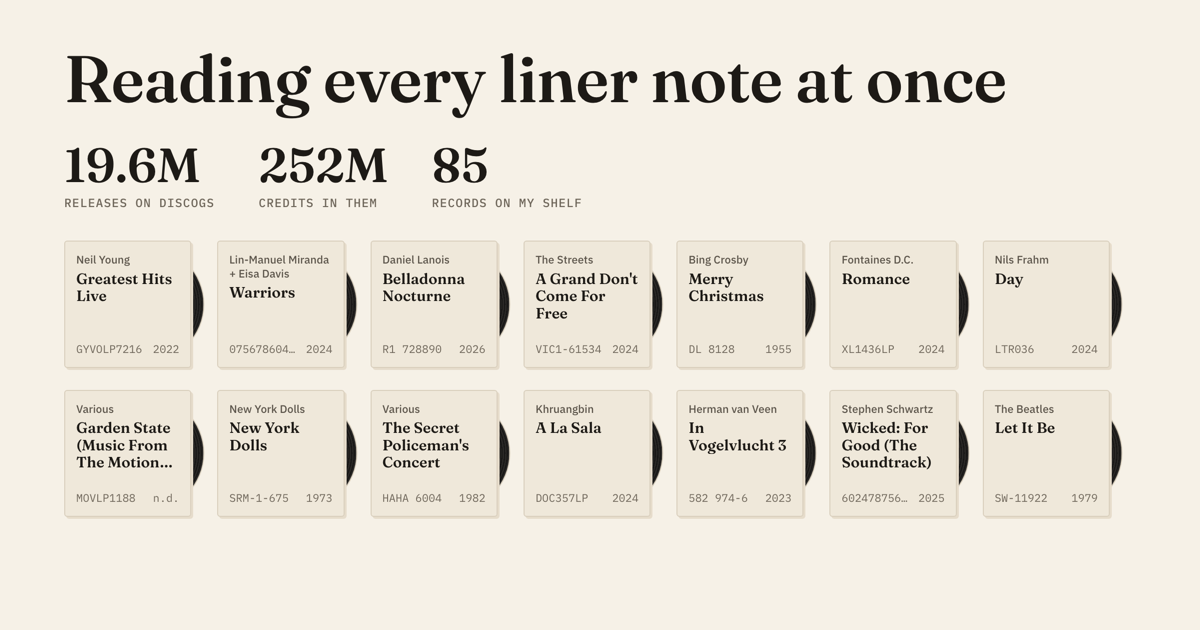
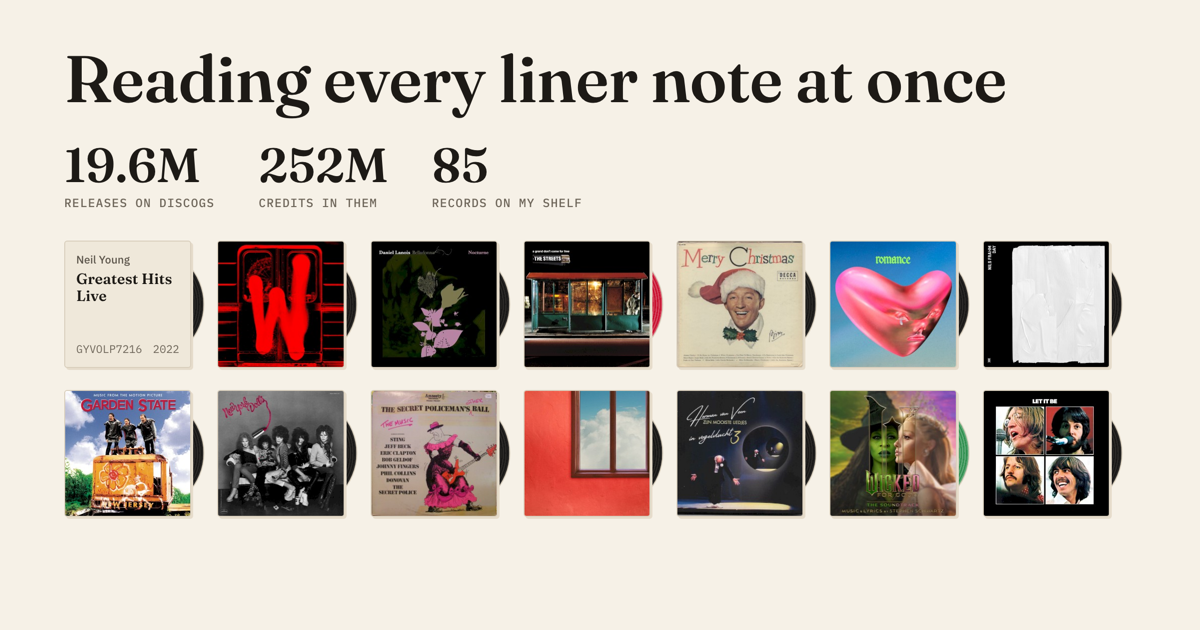
Discogs covers without a hover, and screenshots with covers
- The 11 records the Cover Art Archive doesn't have now ask the Discogs API as they scroll into view, so every cover shows without a hover, on phones too. A burst of 12, then one every 5 seconds, stays under Discogs' 25 a minute. Those covers keep their "Data provided by Discogs" credit showing, and are still forgotten after 5.5 hours.
- The README screenshot (now a JPEG) and the link preview show the covers. Both were taken with the Discogs API blocked, so only Cover Art Archive covers are in them.

Changed region(s): [[0.0308, 0.3619, 0.925, 0.8444]]

diff --git a/web/common.js b/web/common.js
@@ -186,18 +186,23 @@ window.VIZ = (() => {
   };
   const remember = (id, url) => { try { localStorage.setItem("cover:" + id, JSON.stringify({ url, t: Date.now() })); } catch {} };
 
-  // One API call at a time, 2.5 s apart, so sweeping the mouse across the wall stays under 25 a minute
+  // Discogs allows about 25 calls a minute without a login. A burst of 12, then one every 5 seconds, can't go over that
+  // in any minute, even for a shelf with far more records missing from the Cover Art Archive than mine.
   const pendingCovers = new Map();
-  let lastCall = 0, waitUntil = 0;
+  const BURST = 12, EVERY_MS = 5000;
+  let tokens = BURST, refilled = Date.now(), waitUntil = 0;
   const coverUrl = id => {
     const hit = cached(id);
     if (hit) return Promise.resolve(hit);
     if (pendingCovers.has(id)) return pendingCovers.get(id);
     const p = new Promise(resolve => {
       const go = async () => {
-        const delay = Math.max(lastCall + 2500, waitUntil) - Date.now();
+        const now = Date.now();
+        tokens = Math.min(BURST, tokens + (now - refilled) / EVERY_MS);
+        refilled = now;
+        const delay = Math.max(waitUntil - now, tokens >= 1 ? 0 : (1 - tokens) * EVERY_MS);
         if (delay > 0) return setTimeout(go, delay);
-        lastCall = Date.now();
+        tokens -= 1;
         try {
           const res = await fetch(`https://api.discogs.com/releases/${id}`);
           if (res.status === 429) { waitUntil = Date.now() + 60000; return setTimeout(go, 60000); }
@@ -213,6 +218,17 @@ window.VIZ = (() => {
     p.then(() => pendingCovers.delete(id));
     return p;
   };
+
+  // Run fn once el is near the screen. Without IntersectionObserver, run it now.
+  const watchers = new Map();
+  const observer = "IntersectionObserver" in window ? new IntersectionObserver(entries => entries.forEach(e => {
+    if (!e.isIntersecting) return;
+    observer.unobserve(e.target);
+    const fn = watchers.get(e.target);
+    watchers.delete(e.target);
+    if (fn) fn();
+  }), { rootMargin: "300px" }) : null;
+  const inView = (el, fn) => { if (!observer) return fn(); watchers.set(el, fn); observer.observe(el); };
 
   // Vinyl colours as the colours themselves, shared by B2's dots and the records on the sleeves
   const SWATCH = {
@@ -254,24 +270,25 @@ window.VIZ = (() => {
       a.querySelector(".credit").textContent = "Cover Art Archive";
       img.loading = "lazy";
       img.addEventListener("load", () => { if (caa) a.classList.add("show-cover"); }, { once: true });
-      img.addEventListener("error", () => { caa = null; a.classList.remove("caa", "show-cover"); img.removeAttribute("src"); a.querySelector(".credit").textContent = "Data provided by Discogs"; }, { once: true });
+      img.addEventListener("error", () => { caa = null; a.classList.remove("caa", "show-cover"); img.removeAttribute("src"); a.querySelector(".credit").textContent = "Data provided by Discogs"; inView(a, fromDiscogs); }, { once: true });
       img.src = `https://coverartarchive.org/${caa}/front-250`;
     }
-    let active = false;
-    const show = () => {
-      active = true;
-      a.classList.add("out");
-      if (caa) return;
-      if (img.src) return a.classList.add("show-cover");
+    // No Cover Art Archive cover: ask Discogs once the sleeve scrolls into view, and keep its credit showing
+    let asked = false;
+    const fromDiscogs = () => {
+      if (caa || asked) return;
+      asked = true;
       a.classList.add("fetching");
       coverUrl(r.release_id).then(url => {
         a.classList.remove("fetching");
-        if (!url) return;
-        img.addEventListener("load", () => { if (active) a.classList.add("show-cover"); }, { once: true });
+        if (!url || caa) return;
+        img.addEventListener("load", () => a.classList.add("show-cover"), { once: true });
         img.src = url;
       });
     };
-    const hide = () => { active = false; a.classList.remove("out", "fetching"); if (!caa) a.classList.remove("show-cover"); };
+    if (!caa) inView(a, fromDiscogs);
+    const show = () => { a.classList.add("out"); fromDiscogs(); };
+    const hide = () => a.classList.remove("out");
     a.addEventListener("pointerenter", show);
     a.addEventListener("pointerleave", hide);
     a.addEventListener("focus", show);

diff --git a/web/index.html b/web/index.html
@@ -15,7 +15,7 @@
   <meta property="og:image" content="https://tylerhannan.github.io/every-liner-note/preview.png">
   <meta property="og:image:width" content="1200">
   <meta property="og:image:height" content="630">
-  <meta property="og:image:alt" content="Reading every liner note at once: 19.6 million releases on Discogs, 252 million credits, and my records as sleeves">
+  <meta property="og:image:alt" content="Reading every liner note at once: 19.6 million releases on Discogs, 252 million credits, and the covers of my records">
   <meta name="twitter:card" content="summary_large_image">
   <link rel="preconnect" href="https://fonts.googleapis.com">
   <link rel="preconnect" href="https://fonts.gstatic.com" crossorigin>
@@ -58,8 +58,8 @@
     <p class="footnote">Hover over a sleeve to slide the record out. Coloured vinyl comes out in its own colour, the one B2 sorts it
       into. The label is coloured the way B1 is: blue if my copy was pressed within a couple of years of the album, green if it came two
       to nine years later, and red if it's a reissue ten or more years on.</p>
-    <p class="footnote">The covers come from the Cover Art Archive, and the few it doesn't have come from the Discogs API when you hover.
-      Discogs' terms say those can't be kept for more than six hours, so your browser forgets them after five and a half.</p>
+    <p class="footnote">The covers come from the Cover Art Archive, and the few it doesn't have come from the Discogs API as they scroll
+      into view. Discogs' terms say those can't be kept for more than six hours, so your browser forgets them after five and a half.</p>
     <details class="query" data-query="summary"></details>
   </section>
 

diff --git a/web/how.html b/web/how.html
@@ -15,7 +15,7 @@
   <meta property="og:image" content="https://tylerhannan.github.io/every-liner-note/preview.png">
   <meta property="og:image:width" content="1200">
   <meta property="og:image:height" content="630">
-  <meta property="og:image:alt" content="Reading every liner note at once: 19.6 million releases on Discogs, 252 million credits, and my records as sleeves">
+  <meta property="og:image:alt" content="Reading every liner note at once: 19.6 million releases on Discogs, 252 million credits, and the covers of my records">
   <meta name="twitter:card" content="summary_large_image">
   <link rel="preconnect" href="https://fonts.googleapis.com">
   <link rel="preconnect" href="https://fonts.gstatic.com" crossorigin>
@@ -72,8 +72,8 @@
         You can edit the SQL first. Use a read-only user.</dd>
       <dt>Covers</dt>
       <dd>Most covers are already on the page, because the build finds them on the Cover Art Archive through MusicBrainz, once per
-        record. For the rest, hovering over a sleeve fetches the cover from the Discogs API for that one record, kept for under six hours
-        as their terms ask, and credited to Discogs.</dd>
+        record. For the rest, the page asks the Discogs API as each sleeve scrolls into view, keeps the cover for under six hours as their
+        terms ask, and credits Discogs on it.</dd>
     </dl>
   </section>
 

diff --git a/README.md b/README.md
@@ -4,7 +4,7 @@ I wanted to know what my record shelf looks like next to everything else on viny
 
 You can see it at [tylerhannan.github.io/every-liner-note](https://tylerhannan.github.io/every-liner-note/).
 
-![The top of the page: the headline, the Discogs and shelf numbers, and the first two rows of my records as sleeves](docs/screenshot.png)
+![The top of the page: the headline, the Discogs and shelf numbers, and the first two rows of my records](docs/screenshot.jpg)
 
 ## Set up
 
@@ -79,6 +79,6 @@ The colour section works live too, but its numbers barely change from year to ye
 
 ## Credits
 
-Catalogue data comes from the [Discogs monthly data dumps](https://data.discogs.com/), released under CC0. Most cover images come from the [Cover Art Archive](https://coverartarchive.org/), matched through [MusicBrainz](https://musicbrainz.org/) at build time. The rest come from the Discogs API when you hover.
+Catalogue data comes from the [Discogs monthly data dumps](https://data.discogs.com/), released under CC0. Most cover images come from the [Cover Art Archive](https://coverartarchive.org/), matched through [MusicBrainz](https://musicbrainz.org/) at build time. The rest come from the Discogs API as they scroll into view, and aren't kept for more than six hours.
 
 This application uses Discogs' API but is not affiliated with, sponsored or endorsed by Discogs. 'Discogs' is a trademark of Zink Media, LLC.
